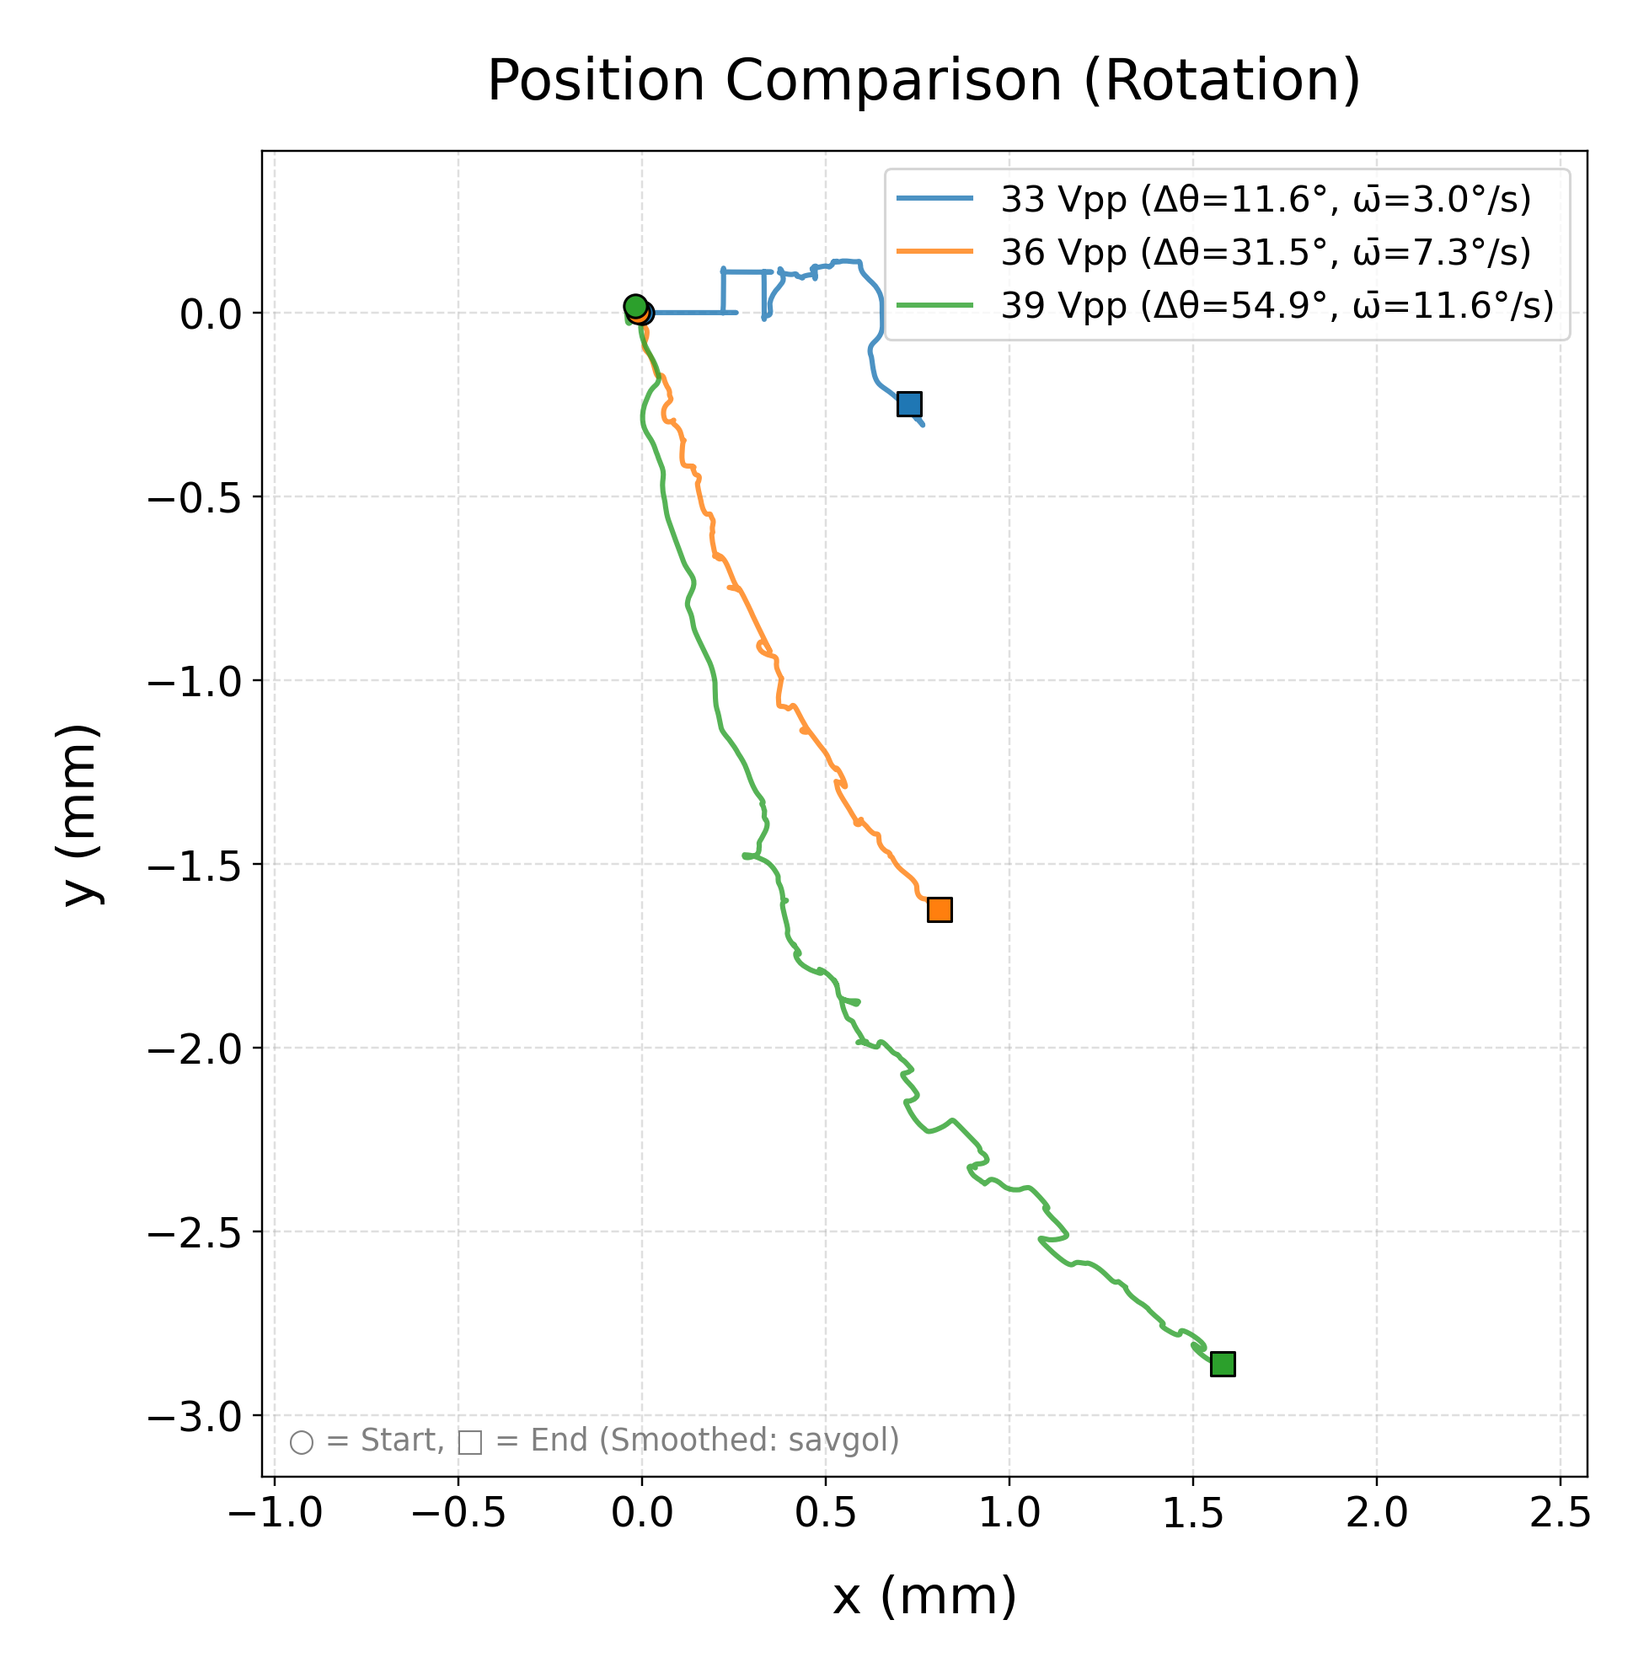
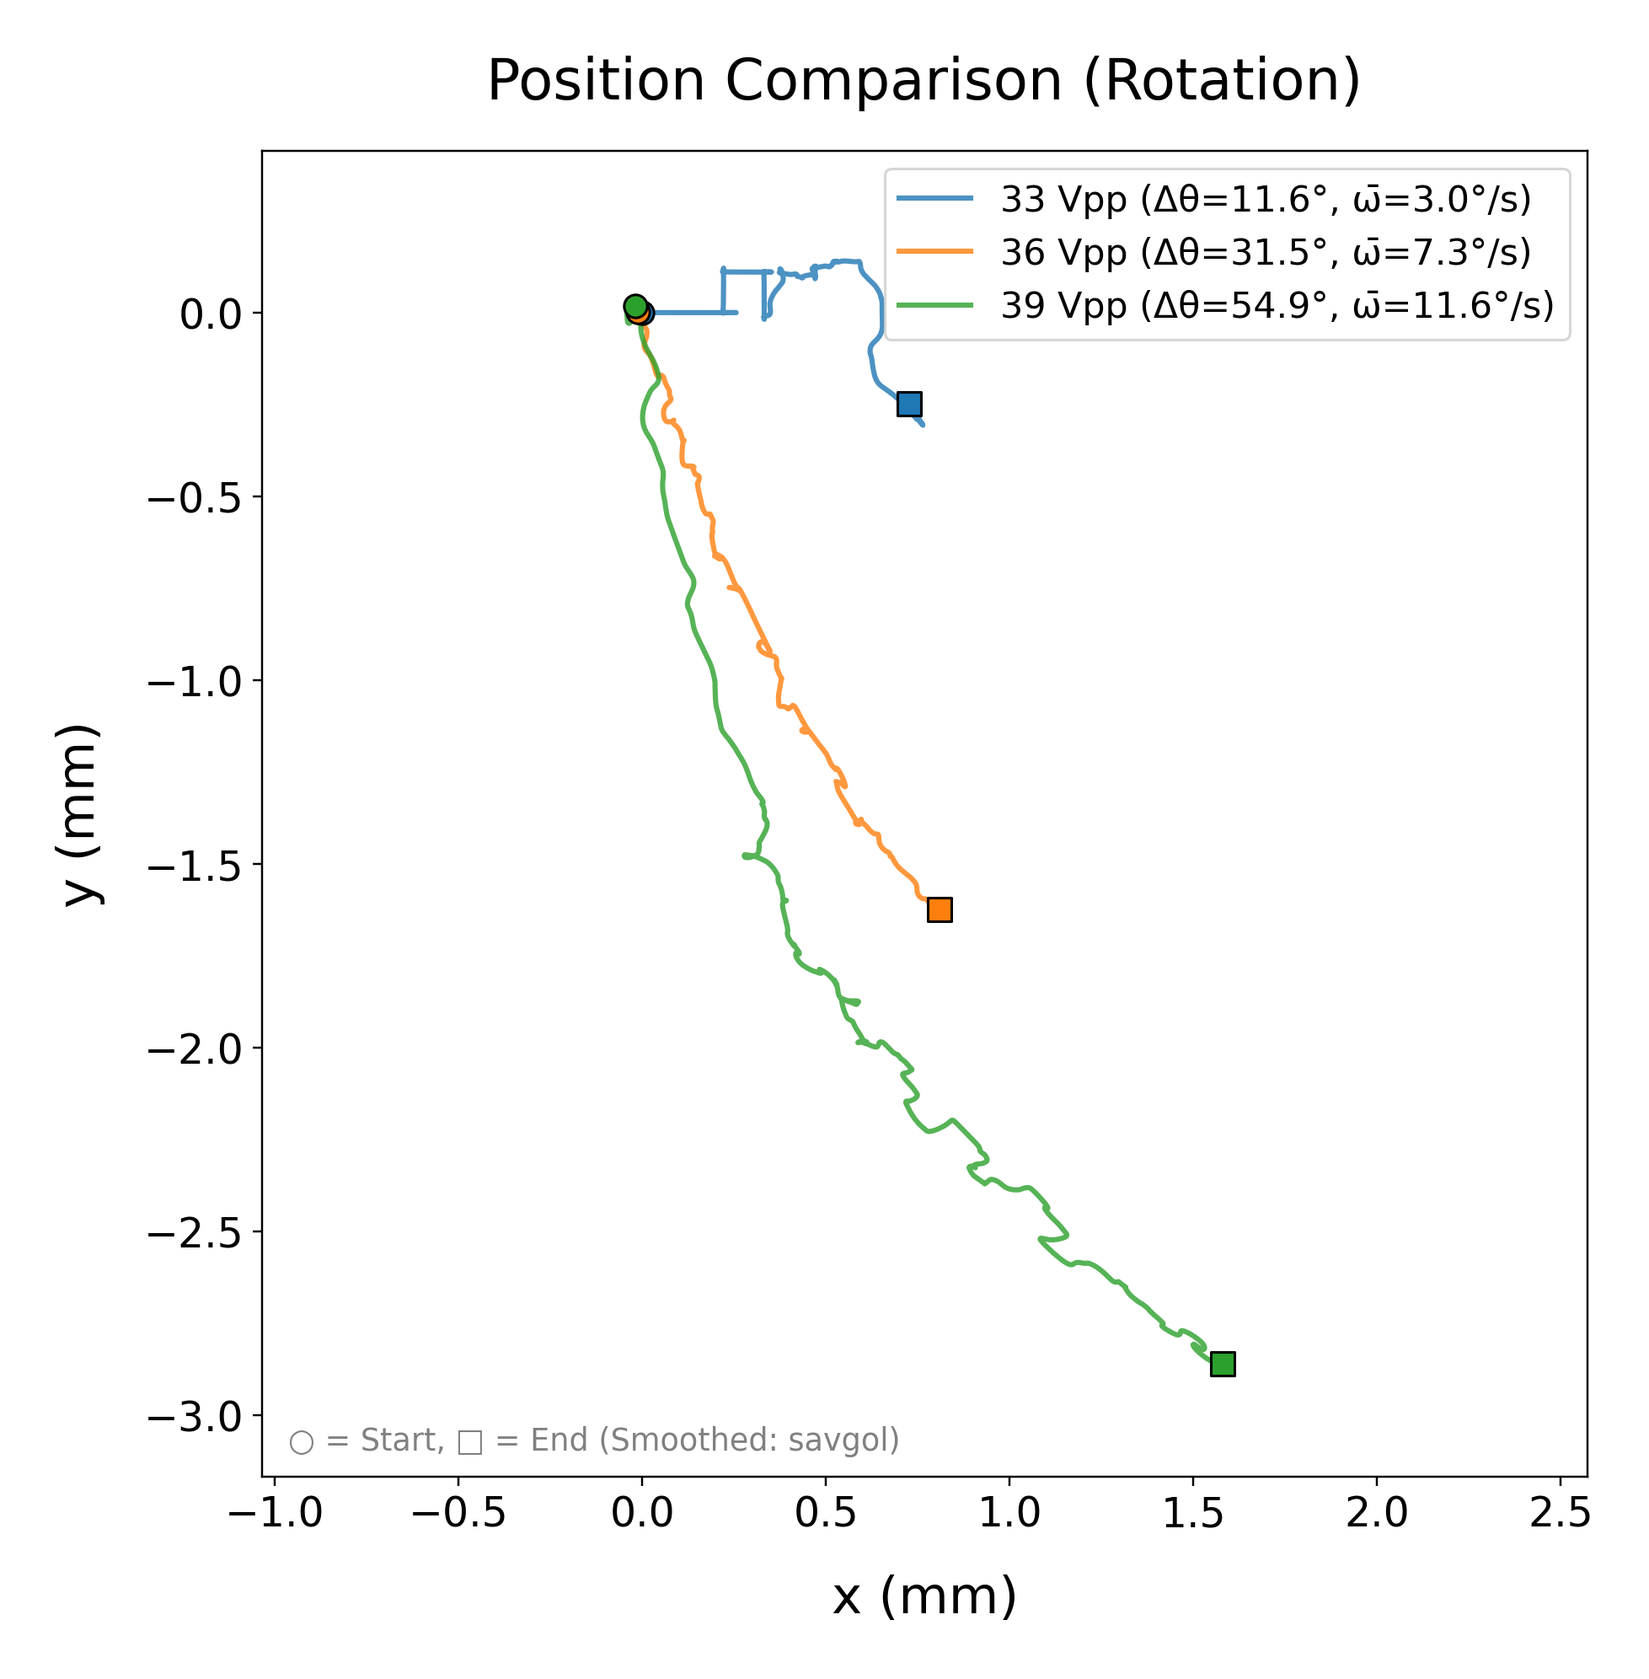
edit plotting detailed (grid, font size...)

diff --git a/data_export.py b/data_export.py
@@ -247,14 +247,13 @@ def generate_plots(df, output_dir, OUT_PREFIX):
     if INVERT_Y_AXIS:
         ax_pos.invert_yaxis()
     ax_pos.set_aspect("equal", adjustable="box")
-    ax_pos.set_xlabel("x (mm)")
-    ax_pos.set_ylabel("y (mm)")
-    ax_pos.set_title("Position")
-    ax_pos.grid(True, linestyle="--", alpha=0.4)
-    ax_pos.legend(loc="best")
+    ax_pos.set_xlabel("x (mm)", fontsize=24)
+    ax_pos.set_ylabel("y (mm)", fontsize=24)
+    ax_pos.set_title("Position", fontsize=22)
+    ax_pos.legend(loc="best", fontsize=14)
     
     plot_pos_path = os.path.join(output_dir, f"{OUT_PREFIX}_position.png")
-    figA.savefig(plot_pos_path, dpi=220)
+    figA.savefig(plot_pos_path, dpi=1200)
     plt.close(figA)
     plot_paths['position'] = plot_pos_path
     
@@ -271,11 +270,10 @@ def generate_plots(df, output_dir, OUT_PREFIX):
             i_max = np.nanargmax(sp_all)
             ax_s.plot([tt[i_max]], [sp_all[i_max]], marker="o", markersize=8, color="red",
                      label=f"Max: {sp_all[i_max]:.2f} mm/s @ {tt[i_max]:.2f}s")
-        ax_s.set_xlabel("Time (s)")
-        ax_s.set_ylabel("Speed (mm/s)")
-        ax_s.set_title("Speed vs Time")
-        ax_s.grid(True, linestyle="--", alpha=0.4)
-        ax_s.legend(loc="best")
+        ax_s.set_xlabel("Time (s)", fontsize=24)
+        ax_s.set_ylabel("Speed (mm/s)", fontsize=24)
+        ax_s.set_title("Speed vs Time", fontsize=22)
+        ax_s.legend(loc="best", fontsize=14)
         
         # 右圖：角度
         if ORIENT_PLOT_WRAPPED:
@@ -294,17 +292,16 @@ def generate_plots(df, output_dir, OUT_PREFIX):
         label_orient = (f"Orientation (deg)\nAvg offset: {avg_offset_deg:.2f}°" 
                        if np.isfinite(avg_offset_deg) else "Orientation (deg)")
         ax_a.plot(df["t_s"], ang_vis, lw=2, label=label_orient)
-        ax_a.set_xlabel("Time (s)")
-        ax_a.set_ylabel("Angle (deg)")
-        ax_a.set_title("Orientation vs Time")
+        ax_a.set_xlabel("Time (s)", fontsize=24)
+        ax_a.set_ylabel("Angle (deg)", fontsize=24)
+        ax_a.set_title("Orientation vs Time", fontsize=22)
         if ORIENT_YLIM_DEG is not None and np.isfinite(ORIENT_YLIM_DEG):
             ylim = float(ORIENT_YLIM_DEG)
             ax_a.set_ylim(-ylim, +ylim)
-        ax_a.grid(True, linestyle="--", alpha=0.4)
-        ax_a.legend(loc="best")
+        ax_a.legend(loc="best", fontsize=14)
         
         plot_so_path = os.path.join(output_dir, f"{OUT_PREFIX}_speed_orientation.png")
-        figB.savefig(plot_so_path, dpi=220)
+        figB.savefig(plot_so_path, dpi=1200)
         plt.close(figB)
         plot_paths['speed_orientation'] = plot_so_path
         
@@ -320,16 +317,15 @@ def generate_plots(df, output_dir, OUT_PREFIX):
         if np.any(finite_ang):
             valid_angles = ang_plot[finite_ang]
             total_rotation = valid_angles[-1] - valid_angles[0]
-            ax_theta.set_title(f"Angle vs Time (Total rotation: {total_rotation:.1f}°)")
+            ax_theta.set_title(f"Angle vs Time (Total rotation: {total_rotation:.1f}°)", fontsize=22)
         else:
-            ax_theta.set_title("Angle vs Time")
+            ax_theta.set_title("Angle vs Time", fontsize=22)
         
-        ax_theta.set_xlabel("Time (s)")
-        ax_theta.set_ylabel("Angle (deg)")
-        ax_theta.grid(True, linestyle="--", alpha=0.4)
+        ax_theta.set_xlabel("Time (s)", fontsize=24)
+        ax_theta.set_ylabel("Angle (deg)", fontsize=24)
         
         plot_theta_path = os.path.join(output_dir, f"{OUT_PREFIX}_angle.png")
-        fig_theta.savefig(plot_theta_path, dpi=220)
+        fig_theta.savefig(plot_theta_path, dpi=1200)
         plt.close(fig_theta)
         plot_paths['angle'] = plot_theta_path
         
@@ -341,16 +337,15 @@ def generate_plots(df, output_dir, OUT_PREFIX):
         finite = np.isfinite(w_all)
         if np.any(finite):
             mean_vel = np.nanmean(w_all)
-            ax_w.set_title(f"Angular Speed vs Time (Mean: {mean_vel:.2f} deg/s)")
+            ax_w.set_title(f"Angular Speed vs Time (Mean: {mean_vel:.2f} deg/s)", fontsize=22)
         else:
-            ax_w.set_title("Angular Speed vs Time")
+            ax_w.set_title("Angular Speed vs Time", fontsize=22)
         
-        ax_w.set_xlabel("Time (s)")
-        ax_w.set_ylabel("Angular speed (deg/s)")
-        ax_w.grid(True, linestyle="--", alpha=0.4)
+        ax_w.set_xlabel("Time (s)", fontsize=24)
+        ax_w.set_ylabel("Angular speed (deg/s)", fontsize=24)
         
         plot_w_path = os.path.join(output_dir, f"{OUT_PREFIX}_angular_speed.png")
-        fig_w.savefig(plot_w_path, dpi=220)
+        fig_w.savefig(plot_w_path, dpi=1200)
         plt.close(fig_w)
         plot_paths['angular_speed'] = plot_w_path
     
@@ -453,14 +448,13 @@ def generate_trajectory_and_composite(df, box_rec, output_dir, OUT_PREFIX, mm_pe
         ax_contour.invert_yaxis()
     
     ax_contour.set_aspect("equal", adjustable="box")
-    ax_contour.set_xlabel("x (mm)")
-    ax_contour.set_ylabel("y (mm)")
-    ax_contour.set_title(f"Position with Time Points")
-    ax_contour.grid(True, linestyle="--", alpha=0.4)
-    ax_contour.legend(loc="best")
+    ax_contour.set_xlabel("x (mm)", fontsize=24)
+    ax_contour.set_ylabel("y (mm)", fontsize=24)
+    ax_contour.set_title(f"Position with Time Points", fontsize=22)
+    ax_contour.legend(loc="best", fontsize=14)
     
     plot_contour_path = os.path.join(output_dir, f"{OUT_PREFIX}_timepoint_position.png")
-    figC.savefig(plot_contour_path, dpi=220)
+    figC.savefig(plot_contour_path, dpi=1200)
     plt.close(figC)
     plot_paths['trajectory_contour'] = plot_contour_path
     

diff --git a/integrated_camera_fg_control_multithreaded.py b/integrated_camera_fg_control_multithreaded.py
@@ -1190,14 +1190,13 @@ def generate_plots(df, output_dir, OUT_PREFIX):
     if INVERT_Y_AXIS:
         ax_pos.invert_yaxis()
     ax_pos.set_aspect("equal", adjustable="box")
-    ax_pos.set_xlabel("x (mm)")
-    ax_pos.set_ylabel("y (mm)")
-    ax_pos.set_title("Position (Trajectory)")
-    ax_pos.grid(True, linestyle="--", alpha=0.4)
-    ax_pos.legend(loc="best")
+    ax_pos.set_xlabel("x (mm)", fontsize=24)
+    ax_pos.set_ylabel("y (mm)", fontsize=24)
+    ax_pos.set_title("Position (Trajectory)", fontsize=22)
+    ax_pos.legend(loc="best", fontsize=14)
     
     plot_pos_path = os.path.join(output_dir, f"{OUT_PREFIX}_position.png")
-    figA.savefig(plot_pos_path, dpi=220)
+    figA.savefig(plot_pos_path, dpi=1200)
     plt.close(figA)
     plot_paths['position'] = plot_pos_path
     
@@ -1214,11 +1213,10 @@ def generate_plots(df, output_dir, OUT_PREFIX):
             i_max = np.nanargmax(sp_all)
             ax_s.plot([tt[i_max]], [sp_all[i_max]], marker="o", markersize=8, color="red",
                       label=f"Max: {sp_all[i_max]:.2f} mm/s @ {tt[i_max]:.2f}s")
-        ax_s.set_xlabel("Time (s)")
-        ax_s.set_ylabel("Speed (mm/s)")
-        ax_s.set_title("Speed vs Time")
-        ax_s.grid(True, linestyle="--", alpha=0.4)
-        ax_s.legend(loc="best")
+        ax_s.set_xlabel("Time (s)", fontsize=24)
+        ax_s.set_ylabel("Speed (mm/s)", fontsize=24)
+        ax_s.set_title("Speed vs Time", fontsize=22)
+        ax_s.legend(loc="best", fontsize=14)
         
         # 右圖：角度
         if ORIENT_PLOT_WRAPPED:
@@ -1236,17 +1234,16 @@ def generate_plots(df, output_dir, OUT_PREFIX):
         
         label_orient = f"Orientation (deg)\nAvg offset: {avg_offset_deg:.2f}°" if np.isfinite(avg_offset_deg) else "Orientation (deg)"
         ax_a.plot(df["t_s"], ang_vis, lw=2, label=label_orient)
-        ax_a.set_xlabel("Time (s)")
-        ax_a.set_ylabel("Angle (deg)")
-        ax_a.set_title("Orientation vs Time")
+        ax_a.set_xlabel("Time (s)", fontsize=24)
+        ax_a.set_ylabel("Angle (deg)", fontsize=24)
+        ax_a.set_title("Orientation vs Time", fontsize=22)
         if ORIENT_YLIM_DEG is not None and np.isfinite(ORIENT_YLIM_DEG):
             ylim = float(ORIENT_YLIM_DEG)
             ax_a.set_ylim(-ylim, +ylim)
-        ax_a.grid(True, linestyle="--", alpha=0.4)
-        ax_a.legend(loc="best")
+        ax_a.legend(loc="best", fontsize=14)
         
         plot_so_path = os.path.join(output_dir, f"{OUT_PREFIX}_speed_orientation.png")
-        figB.savefig(plot_so_path, dpi=220)
+        figB.savefig(plot_so_path, dpi=1200)
         plt.close(figB)
         plot_paths['speed_orientation'] = plot_so_path
         
@@ -1264,14 +1261,13 @@ def generate_plots(df, output_dir, OUT_PREFIX):
             ax_w.plot([tt[i_max]], [w_all[i_max]], marker="o", markersize=8, color="red",
                       label=f"Max: {w_all[i_max]:.2f} deg/s @ {tt[i_max]:.2f}s")
         
-        ax_w.set_xlabel("Time (s)")
-        ax_w.set_ylabel("Angular speed (deg/s)")
-        ax_w.set_title("Angular Speed vs Time")
-        ax_w.grid(True, linestyle="--", alpha=0.4)
-        ax_w.legend(loc="best")
+        ax_w.set_xlabel("Time (s)", fontsize=24)
+        ax_w.set_ylabel("Angular speed (deg/s)", fontsize=24)
+        ax_w.set_title("Angular Speed vs Time", fontsize=22)
+        ax_w.legend(loc="best", fontsize=14)
         
         plot_w_path = os.path.join(output_dir, f"{OUT_PREFIX}_angular_speed.png")
-        figW.savefig(plot_w_path, dpi=220)
+        figW.savefig(plot_w_path, dpi=1200)
         plt.close(figW)
         plot_paths['angular_speed'] = plot_w_path
     
@@ -1351,14 +1347,13 @@ def generate_trajectory_and_composite(df, box_rec, output_dir, OUT_PREFIX, mm_pe
         ax_contour.invert_yaxis()
     
     ax_contour.set_aspect("equal", adjustable="box")
-    ax_contour.set_xlabel("x (mm)")
-    ax_contour.set_ylabel("y (mm)")
-    ax_contour.set_title("Center Trajectory with 8 Time Points")
-    ax_contour.grid(True, linestyle="--", alpha=0.4)
-    ax_contour.legend(loc="best")
+    ax_contour.set_xlabel("x (mm)", fontsize=24)
+    ax_contour.set_ylabel("y (mm)", fontsize=24)
+    ax_contour.set_title("Center Trajectory with 8 Time Points", fontsize=22)
+    ax_contour.legend(loc="best", fontsize=14)
     
     plot_contour_path = os.path.join(output_dir, f"{OUT_PREFIX}_trajectory_center_only.png")
-    figC.savefig(plot_contour_path, dpi=220)
+    figC.savefig(plot_contour_path, dpi=1200)
     plt.close(figC)
     plot_paths['trajectory_contour'] = plot_contour_path
     

diff --git a/data analysis (rotation)/rotation_trajectory_analysis.py b/data analysis (rotation)/rotation_trajectory_analysis.py
@@ -205,11 +205,11 @@ def plot_multi_trajectories(data_dict, output_path, title="Position Comparison (
     
     # 設定圖表樣式
     ax.set_aspect("equal", adjustable="box")
-    ax.set_xlabel("x (mm)", fontsize=20, labelpad=15)
-    ax.set_ylabel("y (mm)", fontsize=20, labelpad=15)
+    ax.set_xlabel("x (mm)", fontsize=24, labelpad=15)
+    ax.set_ylabel("y (mm)", fontsize=24, labelpad=15)
     ax.set_title(title, fontsize=22, pad=20)
     ax.tick_params(axis='both', which='major', labelsize=16)
-    ax.grid(True, linestyle="--", alpha=0.4)
+    #ax.grid(True, linestyle="--", alpha=0.4)
     ax.legend(loc="best", fontsize=14)
     
     # 添加圖例說明
@@ -221,7 +221,7 @@ def plot_multi_trajectories(data_dict, output_path, title="Position Comparison (
     plt.tight_layout(pad=2.0)
     
     # 儲存圖表
-    fig.savefig(output_path, dpi=220, bbox_inches='tight', pad_inches=0.3)
+    fig.savefig(output_path, dpi=1200, bbox_inches='tight', pad_inches=0.3)
     plt.close(fig)
     print(f"\n✓ 位置圖表已儲存: {output_path}")
 
@@ -324,18 +324,18 @@ def plot_multi_angle_comparison(data_dict, output_path, title="Angle vs Time Com
         ax.plot(t_relative, angle_relative, lw=1.5, color=color, label=label, alpha=0.8)
     
     # 設定圖表樣式
-    ax.set_xlabel("Time (s)", fontsize=20, labelpad=15)
-    ax.set_ylabel("Relative Angle (deg)", fontsize=20, labelpad=15)
+    ax.set_xlabel("Time (s)", fontsize=24, labelpad=15)
+    ax.set_ylabel("Relative Angle (deg)", fontsize=24, labelpad=15)
     ax.set_title(title, fontsize=22, pad=20)
     ax.tick_params(axis='both', which='major', labelsize=16)
-    ax.grid(True, linestyle="--", alpha=0.4)
+    #ax.grid(True, linestyle="--", alpha=0.4)
     ax.legend(loc="best", fontsize=14)
     
     # 調整佈局以增加留白
     plt.tight_layout(pad=2.0)
     
     # 儲存圖表
-    fig.savefig(output_path, dpi=220, bbox_inches='tight', pad_inches=0.3)
+    fig.savefig(output_path, dpi=1200, bbox_inches='tight', pad_inches=0.3)
     plt.close(fig)
     print(f"✓ 角度 vs 時間圖表已儲存: {output_path}")
 
@@ -392,11 +392,11 @@ def plot_multi_angular_velocity_comparison(data_dict, output_path, title="Angula
             ax.plot(t_relative, angular_vel_valid, lw=1.5, color=color, label=label, alpha=0.8)
     
     # 設定圖表樣式
-    ax.set_xlabel("Time (s)", fontsize=20, labelpad=15)
-    ax.set_ylabel("Angular Velocity (°/s)", fontsize=20, labelpad=15)
+    ax.set_xlabel("Time (s)", fontsize=24, labelpad=15)
+    ax.set_ylabel("Angular Velocity (°/s)", fontsize=24, labelpad=15)
     ax.set_title(title, fontsize=22, pad=20)
     ax.tick_params(axis='both', which='major', labelsize=16)
-    ax.grid(True, linestyle="--", alpha=0.4)
+    #ax.grid(True, linestyle="--", alpha=0.4)
     ax.legend(loc="best", fontsize=14)
     
     # 添加零線
@@ -406,7 +406,7 @@ def plot_multi_angular_velocity_comparison(data_dict, output_path, title="Angula
     plt.tight_layout(pad=2.0)
     
     # 儲存圖表
-    fig.savefig(output_path, dpi=220, bbox_inches='tight', pad_inches=0.3)
+    fig.savefig(output_path, dpi=1200, bbox_inches='tight', pad_inches=0.3)
     plt.close(fig)
     print(f"✓ 角速度比較圖已儲存: {output_path}")
 

diff --git a/data analysis (straight)/multi_trajectory_analysis.py b/data analysis (straight)/multi_trajectory_analysis.py
@@ -266,7 +266,7 @@ def plot_multi_trajectories(data_dict, output_path, title="Position Comparison")
     plt.tight_layout(pad=2.0)
     
     # 儲存圖表
-    fig.savefig(output_path, dpi=220, bbox_inches='tight', pad_inches=0.3)
+    fig.savefig(output_path, dpi=1200, bbox_inches='tight', pad_inches=0.3)
     plt.close(fig)
     print(f"\n✓ 圖表已儲存: {output_path}")
 
@@ -338,7 +338,7 @@ def plot_multi_speed_comparison(data_dict, output_path, title="Speed Comparison"
     plt.tight_layout(pad=2.0)
     
     # 儲存圖表
-    fig.savefig(output_path, dpi=220, bbox_inches='tight', pad_inches=0.3)
+    fig.savefig(output_path, dpi=1200, bbox_inches='tight', pad_inches=0.3)
     plt.close(fig)
     print(f"✓ 速度比較圖已儲存: {output_path}")
 
@@ -400,7 +400,7 @@ def plot_multi_speed_simple(data_dict, output_path, title="Speed Comparison (Sim
     plt.tight_layout(pad=2.0)
     
     # 儲存圖表
-    fig.savefig(output_path, dpi=220, bbox_inches='tight', pad_inches=0.3)
+    fig.savefig(output_path, dpi=1200, bbox_inches='tight', pad_inches=0.3)
     plt.close(fig)
     print(f"✓ 簡化速度比較圖已儲存: {output_path}")
 
@@ -469,7 +469,7 @@ def plot_multi_angle_comparison(data_dict, output_path, title="Orientation Compa
     plt.tight_layout(pad=2.0)
     
     # 儲存圖表
-    fig.savefig(output_path, dpi=220, bbox_inches='tight', pad_inches=0.3)
+    fig.savefig(output_path, dpi=1200, bbox_inches='tight', pad_inches=0.3)
     plt.close(fig)
     print(f"✓ 角度比較圖已儲存: {output_path}")
 

diff --git a/step response/negative_z_direct_controller_design.py b/step response/negative_z_direct_controller_design.py
@@ -185,9 +185,9 @@ def main():
     plant_num, plant_den = get_plant()
     
     # Controller parameters (alternative optimized set)
-    Kp = 0.08   # Proportional gain
-    Ki = 0.10   # Integral gain
-    Kd = 0.02   # Derivative gain
+    Kp = 0.05   # Proportional gain
+    Ki = 0.15   # Integral gain
+    Kd = 0.01   # Derivative gain
     
     # Time vector for simulation
     t = np.linspace(0, 10, 1000)
@@ -277,15 +277,14 @@ def main():
         all_results.append(f"\nPID Controller: Error - {e}")
     
     # Plot formatting
-    plt.grid(True, linestyle='--', alpha=0.7)
-    plt.xlabel('Time (s)', fontsize=12)
-    plt.ylabel('Angle (degree)', fontsize=12)
-    plt.title('System Identification of Step Response', fontsize=14)
-    plt.legend(loc='best', fontsize=10)
+    plt.xlabel('Time (s)', fontsize=24)
+    plt.ylabel('Angle (degree)', fontsize=24)
+    plt.title('System Identification of Step Response', fontsize=22)
+    plt.legend(loc='best', fontsize=14)
     plt.tight_layout()
     
     # Save figure
-    plt.savefig('negative_z_step_response_with_controllers_v2.png', dpi=150)
+    plt.savefig('negative_z_step_response_with_controllers_v2.png', dpi=1200)
     plt.show()
     
     # Save results to txt file

diff --git a/step response/transfer_function.py b/step response/transfer_function.py
@@ -259,15 +259,14 @@ def main():
         all_results.append(f"\nPID Controller: Error - {e}")
     
     # Plot formatting
-    plt.grid(True, linestyle='--', alpha=0.7)
-    plt.xlabel('Time (s)', fontsize=12)
-    plt.ylabel('Angle (degree)', fontsize=12)
-    plt.title('System Identification of Step Response', fontsize=14)
-    plt.legend(loc='best', fontsize=10)
+    plt.xlabel('Time (s)', fontsize=24)
+    plt.ylabel('Angle (degree)', fontsize=24)
+    plt.title('System Identification of Step Response', fontsize=22)
+    plt.legend(loc='best', fontsize=14)
     plt.tight_layout()
     
     # Save figure
-    plt.savefig('step_response_with_controllers_optimized.png', dpi=150)
+    plt.savefig('step_response_with_controllers_optimized.png', dpi=1200)
     plt.show()
     
     # Save results to txt file
